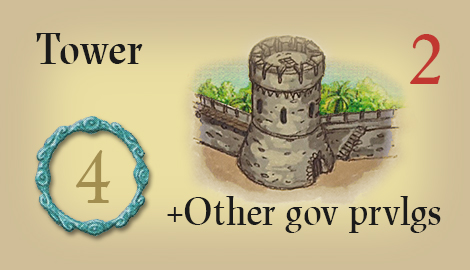
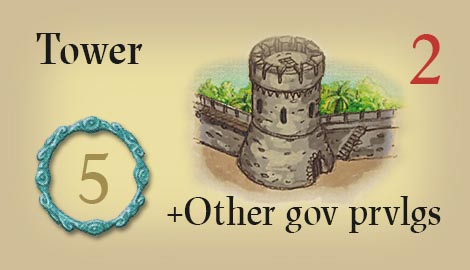
data+art: align Tibs buildings to official Anniversary values
Adopts the official values from the author's Anniversary illustrated set
for the four Tibs buildings whose data disagreed with it, and swaps in
their official tiles:

- Well     cost 3 → 2
- Tower    cost 4 → 5
- Archive  cost 8 → 9
- Bank     cost 8 → 10, now a large (2-space) violet building
           (type large_violet, size 2, qty 1, tier 4); printed VP 4 kept

Bank engine notes: the build-time investment trigger keys on id 52 and is
unaffected; end-game invest VP already requires the building be manned;
City Hall counts it the same (violet|large_violet); it now also counts
toward opponents' Cathedral, consistent with being a large building. Added
a Bank case to estLargeVioletSpecial so the AI still values it. sim.js
reads BUILDINGS/BLD_BY_ID from game.js, so no parallel data edit needed.

Verified: sim/scenarios/features/L6/Tibs-expansion smoke tests all pass;
3 full Tibs AI games complete with Bank built and scored.

Claude-Session: https://claude.ai/code/session_01TQ2tyS8NLinMBt3kVCcYyA

diff --git a/game.js b/game.js
@@ -200,16 +200,16 @@ Object.assign(BUILDING_EFFECT_TEXT, {
 // ============================================================
 const TIBS_BUILDINGS = [
   { id:46, name:"Gold Mine",       cn:"金矿",   img:"46_gold_mine.jpg",       type:"violet",       cost:1,  men:2, vp:1, size:1, qty:2, tier:1, effect:"gold_mine" },
-  { id:47, name:"Well",            cn:"水井",   img:"47_well.jpg",            type:"violet",       cost:3,  men:1, vp:1, size:1, qty:2, tier:2, effect:"well" },
+  { id:47, name:"Well",            cn:"水井",   img:"47_well.jpg",            type:"violet",       cost:2,  men:1, vp:1, size:1, qty:2, tier:2, effect:"well" },
   { id:48, name:"Boarding House",  cn:"寄宿屋", img:"48_boarding_house.jpg",  type:"violet",       cost:4,  men:1, vp:2, size:1, qty:2, tier:2, effect:"boarding_house" },
-  { id:49, name:"Tower",           cn:"塔楼",   img:"49_tower.jpg",           type:"violet",       cost:4,  men:1, vp:2, size:1, qty:2, tier:2, effect:"tower" },
+  { id:49, name:"Tower",           cn:"塔楼",   img:"49_tower.jpg",           type:"violet",       cost:5,  men:1, vp:2, size:1, qty:2, tier:2, effect:"tower" },
   { id:50, name:"Customs Station", cn:"海关站", img:"50_customs_station.jpg", type:"violet",       cost:8,  men:1, vp:3, size:1, qty:2, tier:3, effect:"customs_station" },
-  { id:51, name:"Archive",         cn:"档案馆", img:"51_archive.jpg",         type:"violet",       cost:8,  men:1, vp:3, size:1, qty:2, tier:3, effect:"archive" },
-  { id:52, name:"Bank",            cn:"银行",   img:"52_bank.jpg",            type:"violet",       cost:8,  men:1, vp:4, size:1, qty:2, tier:3, effect:"bank" },
+  { id:51, name:"Archive",         cn:"档案馆", img:"51_archive.jpg",         type:"violet",       cost:9,  men:1, vp:3, size:1, qty:2, tier:3, effect:"archive" },
+  { id:52, name:"Bank",            cn:"银行",   img:"52_bank.jpg",            type:"large_violet", cost:10, men:1, vp:4, size:2, qty:1, tier:4, effect:"bank" },
   { id:53, name:"Cathedral",       cn:"大教堂", img:"53_cathedral.jpg",       type:"large_violet", cost:10, men:1, vp:4, size:2, qty:1, tier:4, effect:"cathedral" },
 ];
 Object.assign(BLD_BY_ID, Object.fromEntries(TIBS_BUILDINGS.map(b => [b.id, b])));
-Object.assign(TIER_BY_BID, { 46:1, 47:2, 48:2, 49:2, 50:3, 51:3, 52:3, 53:4 });
+Object.assign(TIER_BY_BID, { 46:1, 47:2, 48:2, 49:2, 50:3, 51:3, 52:4, 53:4 });
 Object.assign(BUILDING_EN, { 46:"Gold Mine", 47:"Well", 48:"Boarding House", 49:"Tower", 50:"Customs Station", 51:"Archive", 52:"Bank", 53:"Cathedral" });
 // 规则取自 mod 内嵌 Building Rules（Tibs 原文，权威）
 Object.assign(BUILDING_EFFECT_TEXT, {
@@ -219,7 +219,7 @@ Object.assign(BUILDING_EFFECT_TEXT, {
   49:"被动：当其他玩家选择某角色时，你也获得该角色的【特权】（你当总督起始位时除外）。镇守生效。",
   50:"船长阶段：选船长 +1 VP；阶段末每艘满货船清空时，你各得回 1 个该船的货（在存货之后，不腐坏、不触发档案馆等）。镇守生效。",
   51:"船长阶段末：除免费保留 1 桶外，每种货各可保留 1 桶，并立即按保留的货物种类数 +1 VP/种。镇守生效。",
-  52:"投资机制：建造银行时可投入≤8 枚未花的金币；贵族驻守时你每选 1 个角色可投 1 金（累计上限 8）。投入的金不可再用。终局每枚投资 +1 VP。",
+  52:"投资机制：建造银行时可投入≤8 枚未花的金币；贵族驻守时你每选 1 个角色可投 1 金（累计上限 8）。投入的金不可再用。终局每枚投资 +1 VP。大型紫色：占 2 格，需 1 工人镇守激活终局计分。",
   53:"终局：每个【其他玩家】拥有的大型建筑 +2 VP（无需镇守对方建筑）。占 2 格，需镇守本建筑。",
 });
 
@@ -2372,6 +2372,7 @@ function estLargeVioletSpecial(p, id) {
   if (id === 23) return p.buildings.filter(b => { const t = BLD_BY_ID[b.bid].type; return t === "violet" || t === "large_violet"; }).length;
   if (id === 53) { let n = 0; for (const op of G.players) { if (op === p) continue; n += op.buildings.filter(b => BLD_BY_ID[b.bid].type === "large_violet").length; } return n * 2; } // Tibs 大教堂：对手大紫数 ×2
   if (id === 45) return G.nobleCount(p); // 贵族扩展 皇家花园：每名贵族再 +1VP
+  if (id === 52) return Math.max(p._invest || 0, Math.min(8, Math.max(0, (p.money || 0) - 4))); // Tibs 银行(大型)：终局每枚投资 +1VP（估可投金额）
   return 1;
 }
 
